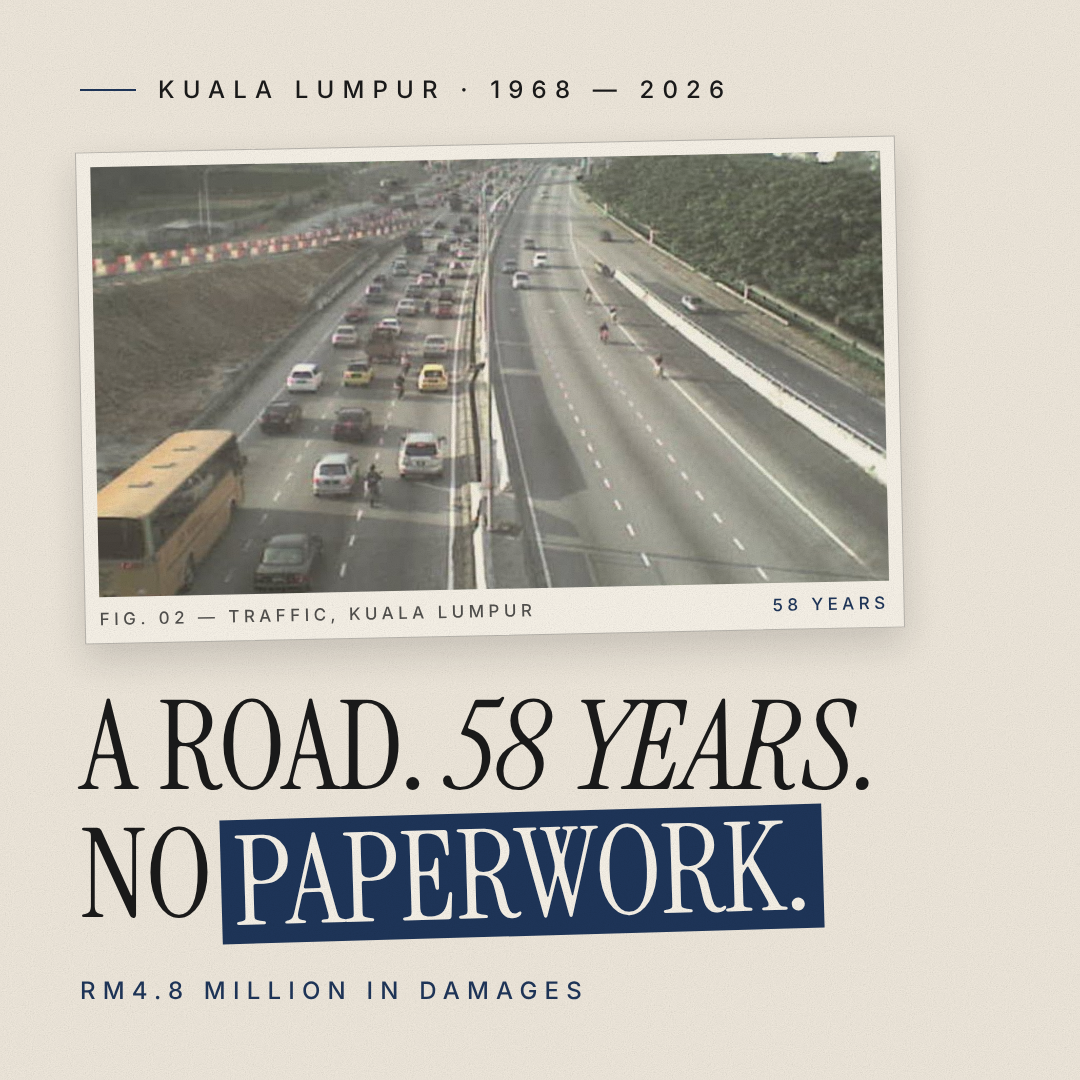
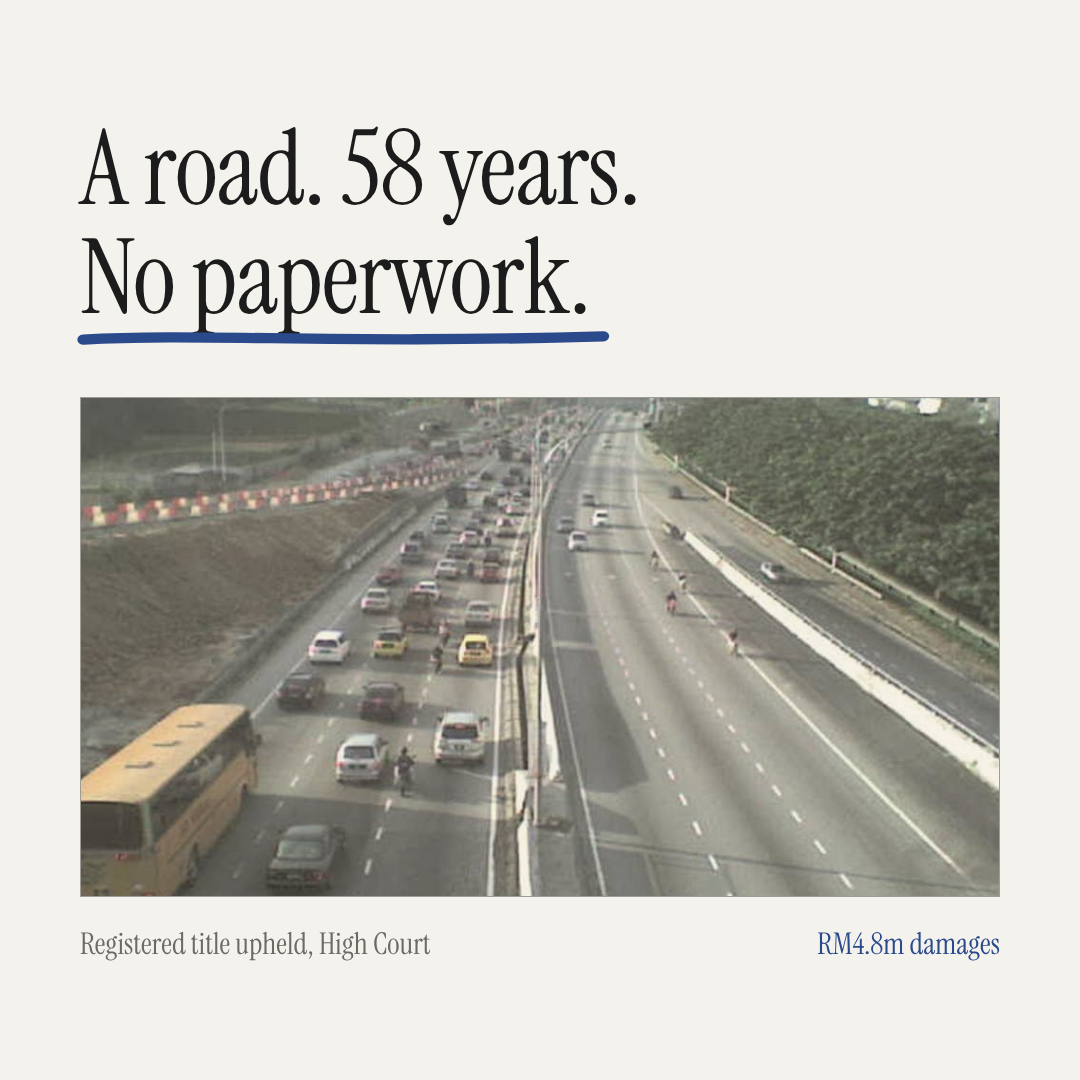
Re-skin the Reel cover to match the lawgistics.my profile
- Cream background, no grain, sentence-case serif, left aligned
- Loose navy underline on the key phrase instead of a filled block
- 'Lawgistics.' wordmark top left, 'lawgistics.my' bottom right
- Photo as a clean rectangle with a thin rule
- Wordmark and handle sit inside the 3:4 grid crop; headline and photo
  inside the square crop

Claude-Session: https://claude.ai/code/session_0167D65ygWC26CnudT2pXJdM

diff --git a/lawgistics-road-case-reel/cover/index.html b/lawgistics-road-case-reel/cover/index.html
@@ -24,10 +24,10 @@
         font-style: normal;
       }
       :root {
-        --paper: #efe8dc;
-        --paper-hi: #f7f2e8;
-        --ink: #1a1a1a;
-        --navy: #1e3559;
+        --cream: #f4f2ec;
+        --ink: #1c1c1c;
+        --muted: #6b6b66;
+        --navy: #2b4a8c;
       }
       * {
         box-sizing: border-box;
@@ -35,14 +35,14 @@
       html,
       body {
         margin: 0;
-        background: var(--paper);
+        background: var(--cream);
       }
       #root {
         position: relative;
         width: 100%;
         height: 100%;
         overflow: hidden;
-        background: var(--paper);
+        background: var(--cream);
         color: var(--ink);
         font-family: "Instrument Serif", Georgia, serif;
       }
@@ -50,196 +50,125 @@
         position: absolute;
         inset: 0;
       }
-      /* everything that matters sits inside the centre 1080×1080 (the profile-grid crop) */
+      /* The grid shows this cover cropped to 3:4 (y 240–1680) and, in some places, 1:1 (y 420–1500).
+         Wordmark and handle sit inside the 3:4 band; headline and photo inside the square. */
+      .wordmark {
+        position: absolute;
+        top: 320px;
+        left: 80px;
+        font-size: 30px;
+        letter-spacing: 0.01em;
+      }
+      .handle {
+        position: absolute;
+        bottom: 300px;
+        right: 80px;
+        font-family: "Inter", sans-serif;
+        font-size: 22px;
+        letter-spacing: 0.02em;
+        color: var(--muted);
+      }
+      .issue {
+        position: absolute;
+        bottom: 300px;
+        left: 80px;
+        font-family: "Inter", sans-serif;
+        font-size: 22px;
+        letter-spacing: 0.02em;
+        color: var(--muted);
+      }
       .inner {
         position: absolute;
         inset: 0;
-        padding: 420px 80px 420px;
+        padding: 430px 80px 430px;
         display: flex;
         flex-direction: column;
         justify-content: center;
       }
-      .folio {
-        position: absolute;
-        font-family: "Inter", sans-serif;
-        font-weight: 500;
-        font-size: 22px;
-        letter-spacing: 0.3em;
-        text-transform: uppercase;
-      }
-      .folio.tl {
-        top: 190px;
-        left: 80px;
-      }
-      .folio.tr {
-        top: 190px;
-        right: 80px;
-      }
-      .folio.bl {
-        bottom: 190px;
-        left: 80px;
-      }
-      .folio.br {
-        bottom: 190px;
-        right: 80px;
-        color: var(--navy);
-      }
-      .mast-rule {
-        position: absolute;
-        left: 80px;
-        right: 80px;
-        height: 1px;
-        background: var(--ink);
-        opacity: 0.55;
-      }
-      .mast-rule.top {
-        top: 234px;
-      }
-      .mast-rule.bottom {
-        bottom: 234px;
-      }
-      .kicker {
-        font-family: "Inter", sans-serif;
-        font-weight: 500;
-        font-size: 24px;
-        letter-spacing: 0.34em;
-        text-transform: uppercase;
-        margin-bottom: 40px;
-        display: flex;
-        align-items: center;
-        gap: 22px;
-      }
-      .kicker .dash {
-        display: block;
-        width: 56px;
-        height: 2px;
-        background: var(--navy);
-      }
-      .fig {
-        position: relative;
-        width: 820px;
-        background: var(--paper-hi);
-        padding: 14px 14px 46px;
-        border: 1px solid rgba(26, 26, 26, 0.28);
-        box-shadow: 0 16px 36px rgba(26, 26, 26, 0.16);
-        margin-bottom: 52px;
-        transform: rotate(-1.2deg);
-      }
-      .fig .ph {
-        width: 100%;
-        height: 430px;
-        overflow: hidden;
-      }
-      .fig .ph img {
-        display: block;
-        width: 100%;
-        height: 100%;
-        object-fit: cover;
-        transform: scale(1.08);
-      }
-      .fig .cap,
-      .fig .num {
-        position: absolute;
-        bottom: 13px;
-        font-family: "Inter", sans-serif;
-        font-weight: 500;
-        font-size: 17px;
-        letter-spacing: 0.26em;
-        text-transform: uppercase;
-      }
-      .fig .cap {
-        left: 14px;
-        opacity: 0.75;
-      }
-      .fig .num {
-        right: 14px;
-        color: var(--navy);
-      }
       .hl {
-        font-size: 124px;
-        line-height: 0.96;
-        text-transform: uppercase;
+        font-size: 104px;
+        line-height: 1.04;
+        letter-spacing: -0.01em;
         max-width: 920px;
       }
       .hl .line {
         display: block;
       }
-      .hl .line + .line {
-        margin-top: 0.04em;
-      }
       .hl i {
         font-style: italic;
       }
-      .key {
+      /* loose hand-drawn underline under the key phrase */
+      .ul {
         position: relative;
         display: inline-block;
-        padding: 0.03em 0.1em 0.01em;
-        margin-left: -0.1em;
-        background: var(--navy);
-        color: var(--paper-hi);
-        transform: rotate(-1.6deg);
       }
-      .meta {
-        font-family: "Inter", sans-serif;
-        font-weight: 500;
-        font-size: 24px;
-        letter-spacing: 0.3em;
-        text-transform: uppercase;
-        margin-top: 40px;
-        color: var(--navy);
-      }
-      #grain {
+      .ul svg {
         position: absolute;
-        inset: 0;
-        z-index: 50;
-        opacity: 0.12;
-        mix-blend-mode: multiply;
-        pointer-events: none;
+        left: -0.02em;
+        right: -0.02em;
+        bottom: -0.16em;
+        width: 104%;
+        height: 0.22em;
+        overflow: visible;
       }
-      #grain svg {
+      .ul svg path {
+        fill: none;
+        stroke: var(--navy);
+        stroke-width: 9;
+        stroke-linecap: round;
+      }
+      .photo {
+        margin-top: 64px;
+        width: 920px;
+        height: 500px;
+        overflow: hidden;
+        border: 1px solid rgba(28, 28, 28, 0.35);
+        background: #e3e0d8;
+      }
+      .photo img {
         display: block;
         width: 100%;
         height: 100%;
+        object-fit: cover;
+        transform: scale(1.06);
+      }
+      .sub {
+        margin-top: 28px;
+        display: flex;
+        justify-content: space-between;
+        align-items: baseline;
+        max-width: 920px;
+        font-size: 30px;
+        color: var(--muted);
+      }
+      .sub .val {
+        color: var(--navy);
       }
     </style>
   </head>
   <body>
     <div id="root" data-composition-id="cover" data-start="0" data-duration="1" data-width="1080" data-height="1920">
       <div id="page" class="clip" data-start="0" data-duration="1" data-track-index="1">
-        <div class="folio tl">Lawgistics</div>
-        <div class="folio tr">High Court update</div>
-        <div class="mast-rule top"></div>
+        <div class="wordmark">Lawgistics.</div>
         <div class="inner">
-          <div class="kicker"><span class="dash"></span><span>Kuala Lumpur · 1968 — 2026</span></div>
-          <div class="fig">
-            <div class="ph"><img src="assets/duke-highway.jpg" alt="" /></div>
-            <div class="cap">Fig. 02 — Traffic, Kuala Lumpur</div>
-            <div class="num">58 years</div>
-          </div>
           <div class="hl">
-            <span class="line">A road. <i>58 years.</i></span>
-            <span class="line">No <span class="key">Paperwork.</span></span>
+            <span class="line">A road. 58 years.</span>
+            <span class="line">
+              <span class="ul">No paperwork.
+                <svg viewBox="0 0 400 20" preserveAspectRatio="none" aria-hidden="true">
+                  <path d="M4 12 C 90 6, 200 16, 396 9" />
+                </svg>
+              </span>
+            </span>
           </div>
-          <div class="meta">RM4.8 million in damages</div>
+          <div class="photo"><img src="assets/duke-highway.jpg" alt="" /></div>
+          <div class="sub">
+            <span>Registered title upheld, High Court</span>
+            <span class="val">RM4.8m damages</span>
+          </div>
         </div>
-        <div class="mast-rule bottom"></div>
-        <div class="folio bl">Law. Explained.</div>
-        <div class="folio br">№ 02 · Watch</div>
-      </div>
-
-      <div id="grain">
-        <svg xmlns="http://www.w3.org/2000/svg" viewBox="0 0 1080 1920" preserveAspectRatio="none">
-          <filter id="grain-filter" x="0" y="0" width="100%" height="100%" color-interpolation-filters="sRGB">
-            <feTurbulence type="fractalNoise" baseFrequency="0.95" numOctaves="2" seed="7" stitchTiles="stitch" />
-            <feColorMatrix type="saturate" values="0" />
-            <feComponentTransfer>
-              <feFuncR type="linear" slope="1.6" intercept="-0.3" />
-              <feFuncG type="linear" slope="1.6" intercept="-0.3" />
-              <feFuncB type="linear" slope="1.6" intercept="-0.3" />
-            </feComponentTransfer>
-          </filter>
-          <rect width="1080" height="1920" filter="url(#grain-filter)" />
-        </svg>
+        <div class="issue">High Court Update · 02</div>
+        <div class="handle">lawgistics.my</div>
       </div>
     </div>
     <script>
